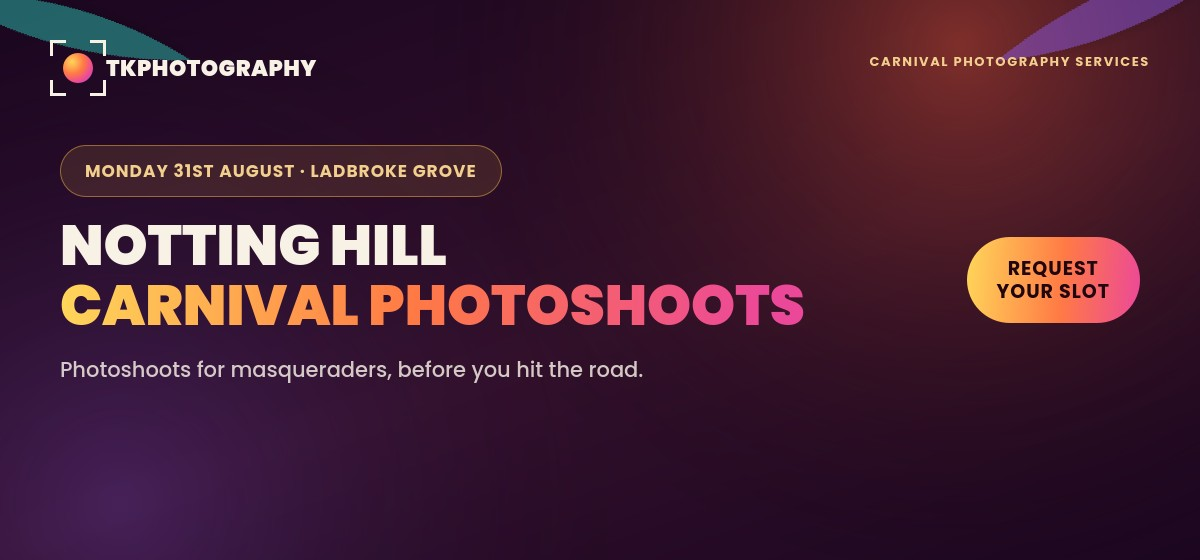
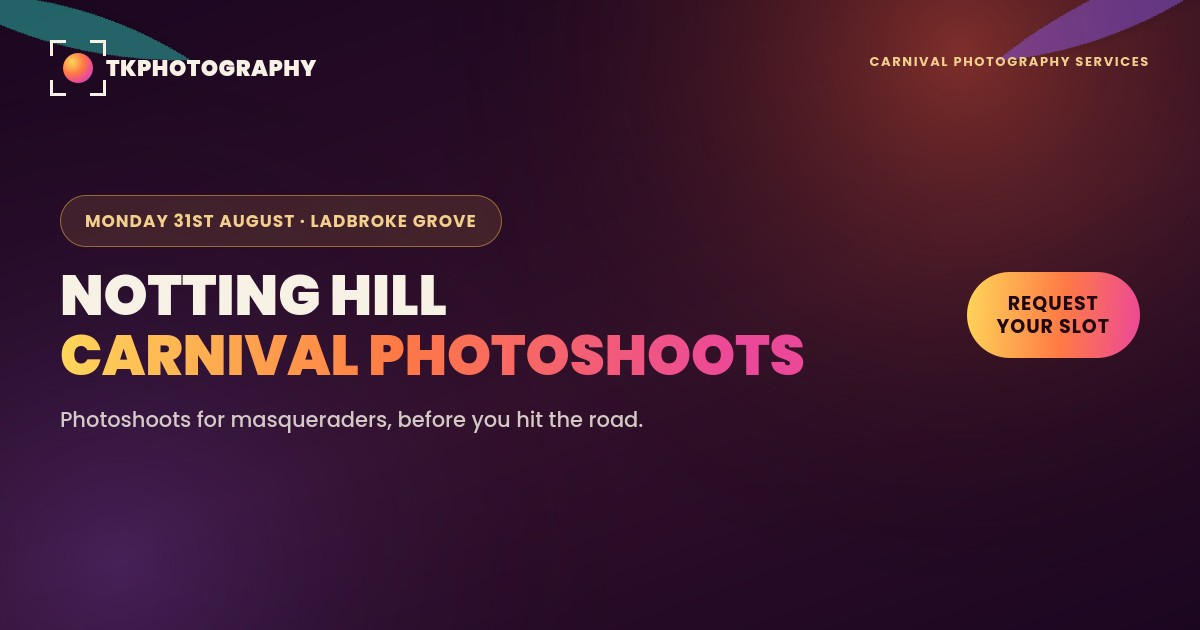
Add files via upload

diff --git a/index.html b/index.html
@@ -4,14 +4,16 @@
 <meta charset="UTF-8">
 <meta name="viewport" content="width=device-width, initial-scale=1.0">
 <title>Notting Hill Carnival Photoshoots — TKPhotography</title>
+<meta name="description" content="Get your photos before you join your band. Request your Pre-Road Masquerader Photoshoot slot on Ladbroke Grove — Monday 31st August.">
+<meta property="og:site_name" content="TKPhotography">
 <meta property="og:title" content="Masquerader Photoshoots — Notting Hill Carnival">
-<meta property="og:description" content="Get your photos before you join your band. Request your Pre-Road slot on Ladbroke Grove — Monday 31st August.">
+<meta property="og:description" content="Masquerader Photoshoots at Notting Hill Carnival. Get your photos before you hit the road. Ladbroke Grove, 7am-11am, request your slot now.">
 <meta property="og:image" content="https://t9671k5p1.github.io/masquerader-shoots/carnival-share-image.jpg">
 <meta property="og:url" content="https://t9671k5p1.github.io/masquerader-shoots/">
 <meta property="og:type" content="website">
 <meta name="twitter:card" content="summary_large_image">
 <meta name="twitter:title" content="Masquerader Photoshoots — Notting Hill Carnival">
-<meta name="twitter:description" content="Get your photos before you join your band. Request your Pre-Road slot on Ladbroke Grove — Monday 31st August.">
+<meta name="twitter:description" content="Masquerader Photoshoots at Notting Hill Carnival. Get your photos before you hit the road. Ladbroke Grove, 7am-11am, request your slot now.">
 <meta name="twitter:image" content="https://t9671k5p1.github.io/masquerader-shoots/carnival-share-image.jpg">
 <link rel="preconnect" href="https://fonts.googleapis.com">
 <link rel="preconnect" href="https://fonts.gstatic.com" crossorigin>
